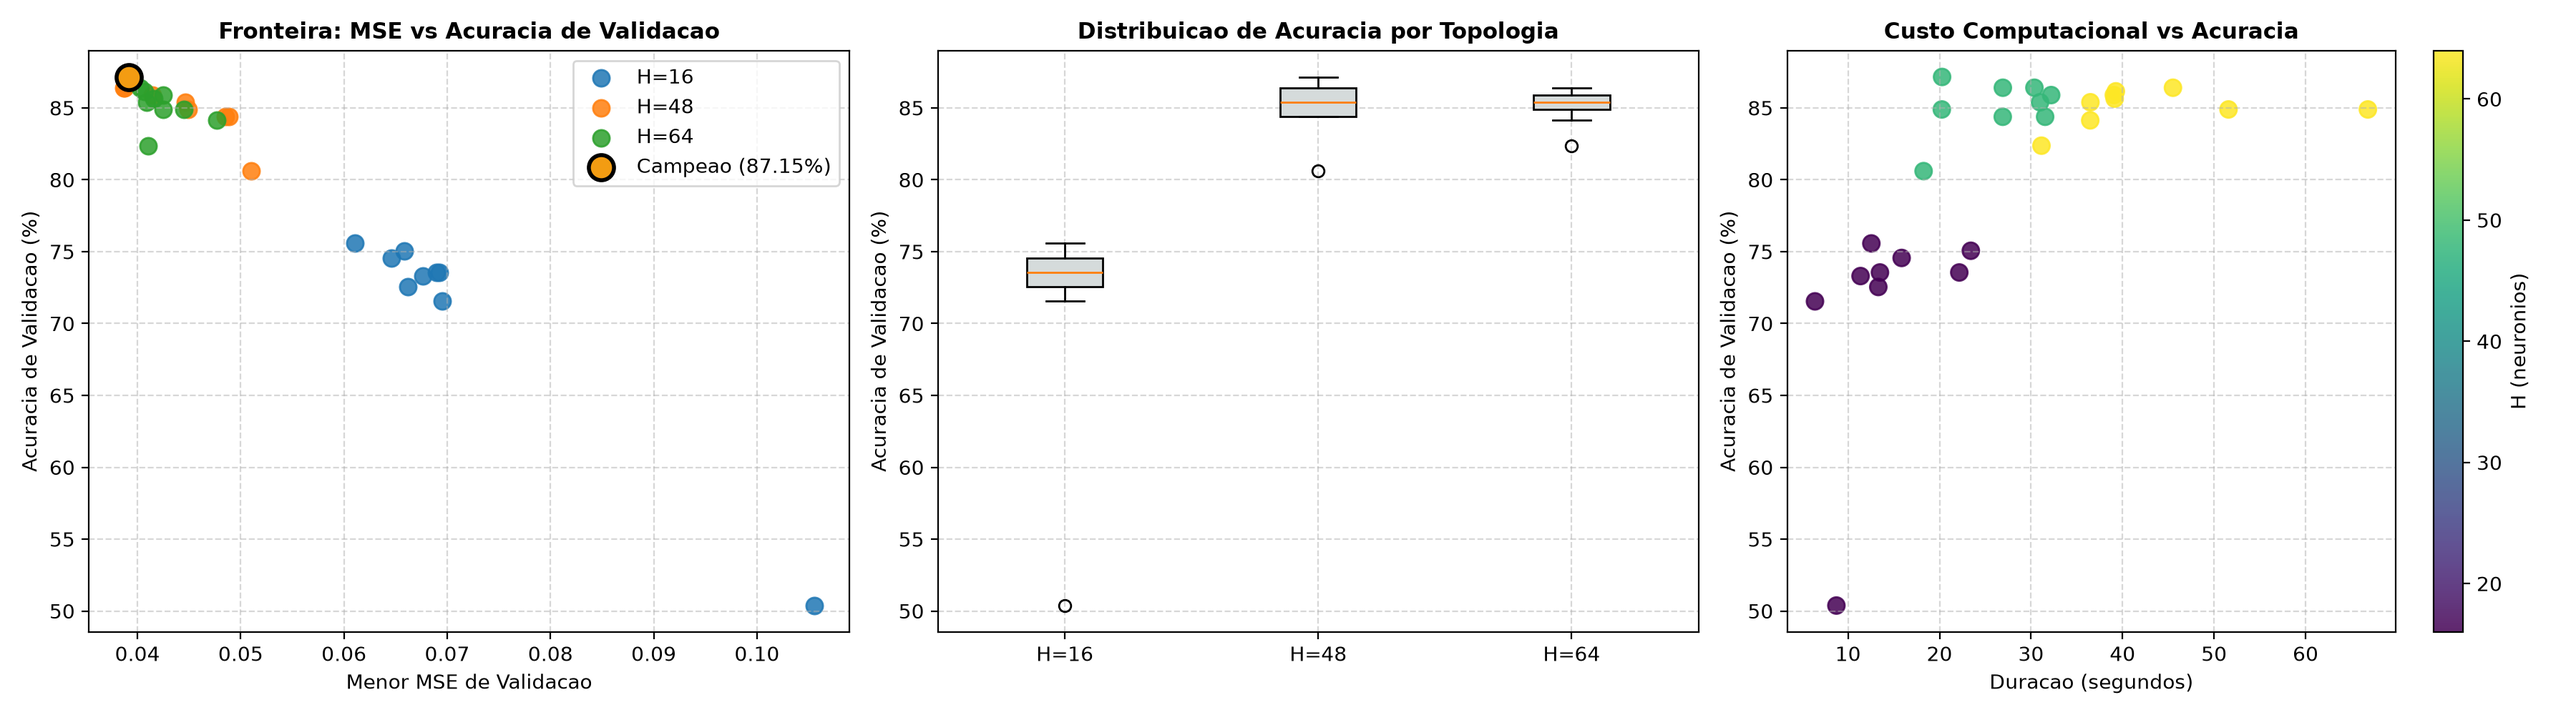
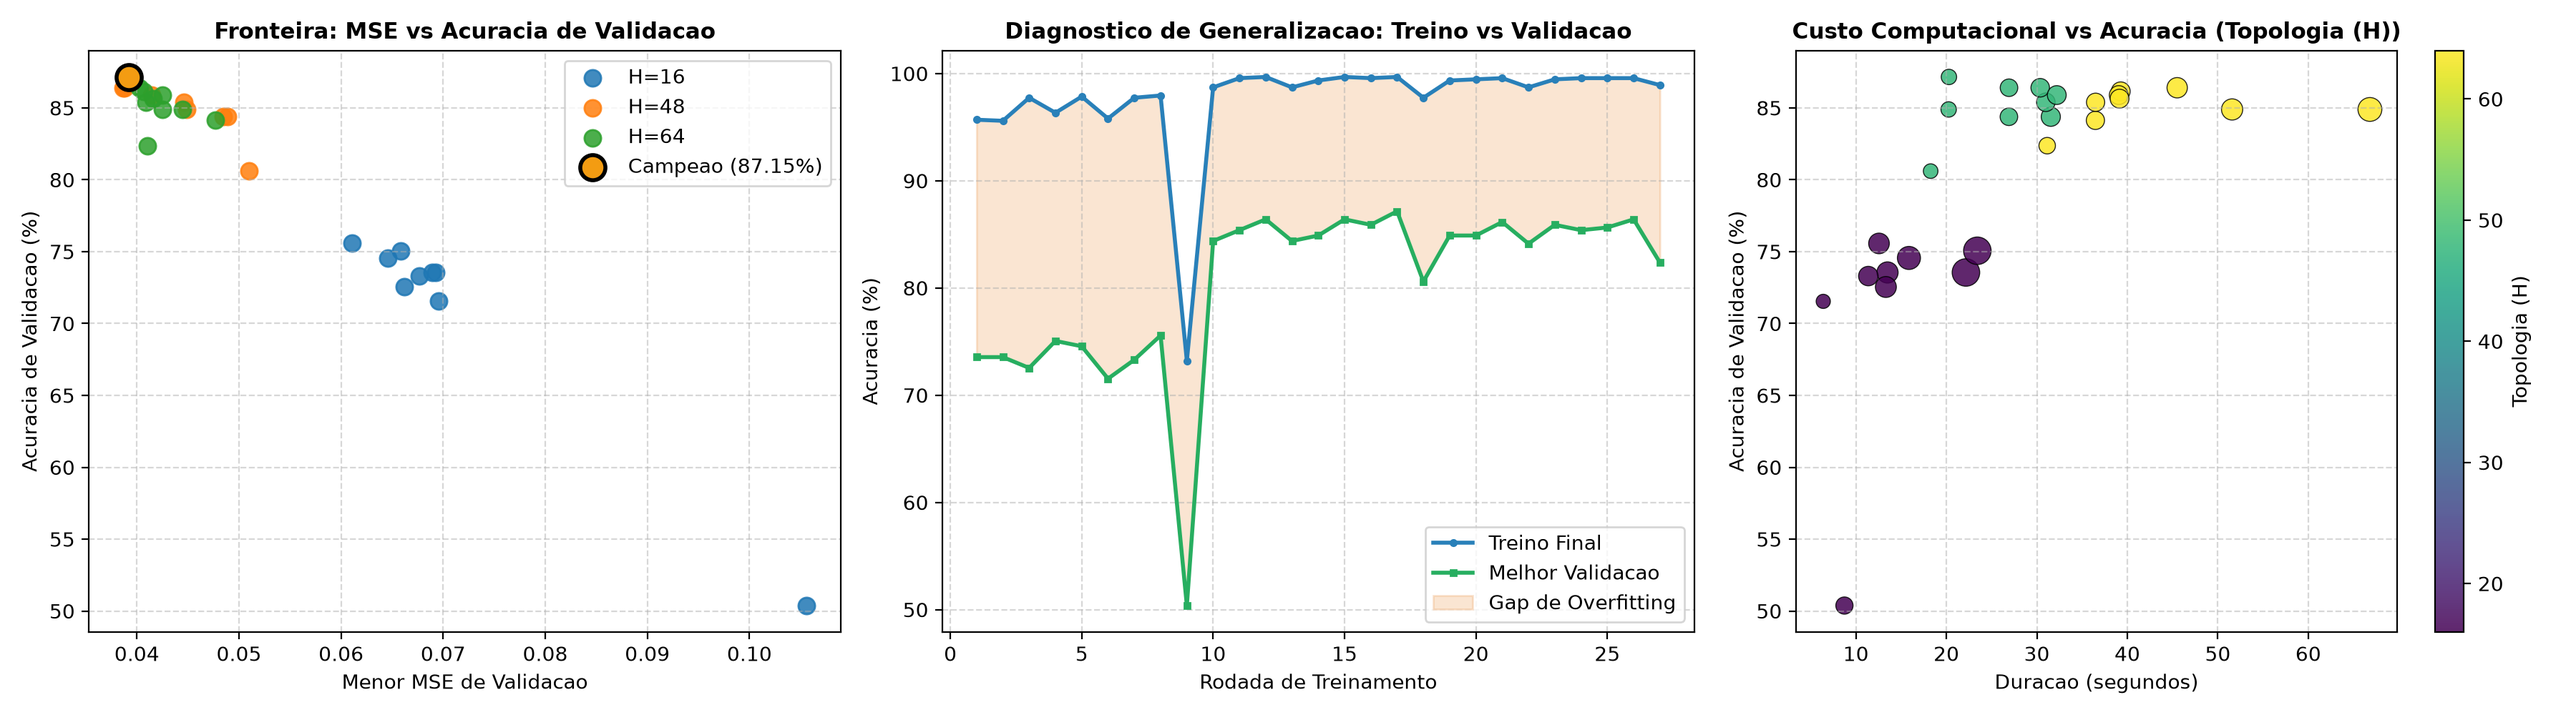
study: melhoria das análises do modelo campeão

diff --git a/results/2_champion_model/1_grid_search_inicial/acc87.2_h48_2026_11_12_10_46/ANALISE_GRID_SEARCH.md b/results/2_champion_model/1_grid_search_inicial/acc87.2_h48_2026_11_12_10_46/ANALISE_GRID_SEARCH.md
@@ -1,37 +1,72 @@
 # Relatorio Analitico - Grid Search
 
-Total de Modelos Treinados: 27  
+Total de Modelos Treinados: 27
 
----
 
-## 1. Melhor Modelo da Execucao
+## 1. Melhor Modelo da Execucao (Top 1)
 
 - **Rodada:** #17
 - **Topologia:** `H = 48`
-- **Hiperparametros:** `LR = 0.025`, `Momentum = 0.55`, `Patience = 6`
-- **Melhor Acuracia de Validacao:** **87.15%**
+- **Hiperparametros:** `Val Ratio = 0.3`, `LR = 0.025`, `Momentum = 0.55`, `Patience = 6`, `Noise = 0.0`
+- **Melhor Acuracia de Validacao:** **87.15%** (alcancada na epoca 14)
+- **Acuracia de Treino Final:** 99.68% (Gap Treino-Val: **+12.53%**)
 - **Menor MSE de Validacao:** **0.03918**
-- **Epocas Executadas:** 20 (convergencia em 20.28s)
+- **Epocas Executadas:** 20 (20.28s) | Parada Antecipada: `Sim`
 - **Checkpoint Salvo:** `gs_acc87.2_h48.json`
 
----
 
-## 2. Comparativo por Topologia (H)
+## 2. Comparativo por Topologia (Neuronios Ocultos H)
 
-| Neuronios (H) | Total Modelos | Acuracia Media | Acuracia Maxima | MSE Minimo | Tempo Medio (s) |
-| :---: | :---: | :---: | :---: | :---: | :---: |
-| **H=16** | 9 | 71.12% | **75.57%** | **0.06109** | 14.14s |
-| **H=48** | 9 | 85.05% | **87.15%** | **0.03865** | 26.41s |
-| **H=64** | 9 | 85.08% | **86.40%** | **0.04029** | 42.83s |
+| Neuronios (H) | Total Modelos | Acuracia Media | Acuracia Maxima | Gap Overfit Medio | MSE Minimo | Tempo Medio (s) |
+| :---: | :---: | :---: | :---: | :---: | :---: | :---: |
+| **H=16** | 9 | 71.12% | **75.57%** | +23.09% | **0.06109** | 14.14s |
+| **H=48** | 9 | 85.05% | **87.15%** | +14.13% | **0.03865** | 26.41s |
+| **H=64** | 9 | 85.08% | **86.40%** | +14.27% | **0.04029** | 42.83s |
 
----
+## 3. Comparativo por Taxa de Aprendizado (Learn Rate)
 
-## 3. Top 5 Melhores Modelos
+| Taxa (η) | Total Modelos | Acuracia Media | Acuracia Maxima | Gap Overfit Medio | MSE Minimo | Tempo Medio (s) |
+| :---: | :---: | :---: | :---: | :---: | :---: | :---: |
+| **η = 0.008** | 9 | 81.30% | **86.40%** | +17.07% | **0.03865** | 33.28s |
+| **η = 0.01** | 9 | 81.36% | **86.40%** | +17.03% | **0.03876** | 25.75s |
+| **η = 0.025** | 9 | 78.59% | **87.15%** | +17.40% | **0.03918** | 24.35s |
 
-| Posicao | Rodada | H | LR | Momentum | Acc Val | MSE Val | Epocas | Tempo | Checkpoint |
-| :---: | :---: | :---: | :---: | :---: | :---: | :---: | :---: | :---: | :--- |
-| #1 | Rodada 17 | H=48 | 0.025 | 0.55 | **87.15%** | 0.03918 | 20 | 20.3s | `gs_acc87.2_h48.json` |
-| #2 | Rodada 12 | H=48 | 0.008 | 0.85 | **86.40%** | 0.03865 | 29 | 30.4s | `gs_acc86.4_h48.json` |
-| #3 | Rodada 15 | H=48 | 0.01 | 0.85 | **86.40%** | 0.03876 | 26 | 26.9s | `gs_acc86.4_h48_v2.json` |
-| #4 | Rodada 26 | H=64 | 0.025 | 0.55 | **86.40%** | 0.04029 | 35 | 45.5s | `gs_acc86.4_h64.json` |
-| #5 | Rodada 21 | H=64 | 0.008 | 0.85 | **86.15%** | 0.04067 | 30 | 39.3s | `gs_acc86.1_h64.json` |
+## 4. Comparativo por Fator de Momentum
+
+| Momentum (α) | Total Modelos | Acuracia Media | Acuracia Maxima | Gap Overfit Medio | MSE Minimo | Tempo Medio (s) |
+| :---: | :---: | :---: | :---: | :---: | :---: | :---: |
+| **α = 0.15** | 9 | 81.25% | **85.89%** | +17.02% | **0.04142** | 32.22s |
+| **α = 0.55** | 9 | 82.03% | **87.15%** | +16.69% | **0.03918** | 27.73s |
+| **α = 0.85** | 9 | 77.97% | **86.40%** | +17.79% | **0.03865** | 23.43s |
+
+## 5. Diagnostico de Generalizacao & Overfitting
+
+- **Gap Medio Global (Treino - Validacao):** **+17.17%**
+- **Modelo Mais Generalizador (Menor Gap):** Rodada #17 (Treino: 99.68% | Val: 87.15% | Gap: **+12.53%**)
+- **Distribuicao da Capacidade de Generalizacao:**
+  - Generalizacao Alta (Gap <= 5%): **0/27** modelos
+  - Sobreajuste Moderado (5% < Gap <= 15%): **16/27** modelos
+  - Sobreajuste Acentuado (Gap > 15%): **11/27** modelos
+
+
+## 6. Top 10 Melhores Modelos da Execucao
+
+| Pos | Rodada | H | Ratio | LR | Momentum | P | Noise | Acc Treino | Acc Val | Gap Overfit | MSE Val | Epocas | Tempo | Checkpoint |
+| :---: | :---: | :---: | :---: | :---: | :---: | :---: | :---: | :---: | :---: | :---: | :---: | :---: | :---: | :--- |
+| #1 | #17 | 48 | 0.30 | 0.025 | 0.55 | 6 | 0.00 | 99.68% | **87.15%** | +12.53% | 0.03918 | 20 | 20.3s | `gs_acc87.2_h48.json` |
+| #2 | #12 | 48 | 0.30 | 0.008 | 0.85 | 6 | 0.00 | 99.68% | **86.40%** | +13.28% | 0.03865 | 29 | 30.4s | `gs_acc86.4_h48.json` |
+| #3 | #15 | 48 | 0.30 | 0.01 | 0.85 | 6 | 0.00 | 99.68% | **86.40%** | +13.28% | 0.03876 | 26 | 26.9s | `gs_acc86.4_h48_v2.json` |
+| #4 | #26 | 64 | 0.30 | 0.025 | 0.55 | 6 | 0.00 | 99.57% | **86.40%** | +13.17% | 0.04029 | 35 | 45.5s | `gs_acc86.4_h64.json` |
+| #5 | #21 | 64 | 0.30 | 0.008 | 0.85 | 6 | 0.00 | 99.57% | **86.15%** | +13.42% | 0.04067 | 30 | 39.3s | `gs_acc86.1_h64.json` |
+| #6 | #16 | 48 | 0.30 | 0.025 | 0.15 | 6 | 0.00 | 99.57% | **85.89%** | +13.68% | 0.04142 | 30 | 32.2s | `gs_acc85.9_h48.json` |
+| #7 | #23 | 64 | 0.30 | 0.01 | 0.55 | 6 | 0.00 | 99.46% | **85.89%** | +13.57% | 0.04249 | 30 | 39.0s | `gs_acc85.9_h64.json` |
+| #8 | #25 | 64 | 0.30 | 0.025 | 0.15 | 6 | 0.00 | 99.57% | **85.64%** | +13.93% | 0.04161 | 30 | 39.1s | `gs_acc85.6_h64.json` |
+| #9 | #24 | 64 | 0.30 | 0.01 | 0.85 | 6 | 0.00 | 99.57% | **85.39%** | +14.18% | 0.04091 | 28 | 36.5s | `gs_acc85.4_h64.json` |
+| #10 | #11 | 48 | 0.30 | 0.008 | 0.55 | 6 | 0.00 | 99.57% | **85.39%** | +14.18% | 0.04463 | 29 | 31.0s | `gs_acc85.4_h48.json` |
+
+## 7. Paineis Visuais Gerados
+
+- **Visao Global (Fronteira MSE, Overfitting e Custo):** `grid_search_insights.png`
+- **Sensibilidade Parametrica Individual (Acc vs Hiperparametros):** `grid_search_hyperparams.png`
+- **Mapas de Calor Bivariados (Interacao de Pares):** `grid_search_heatmaps.png` (se >= 2 variaveis)
+
